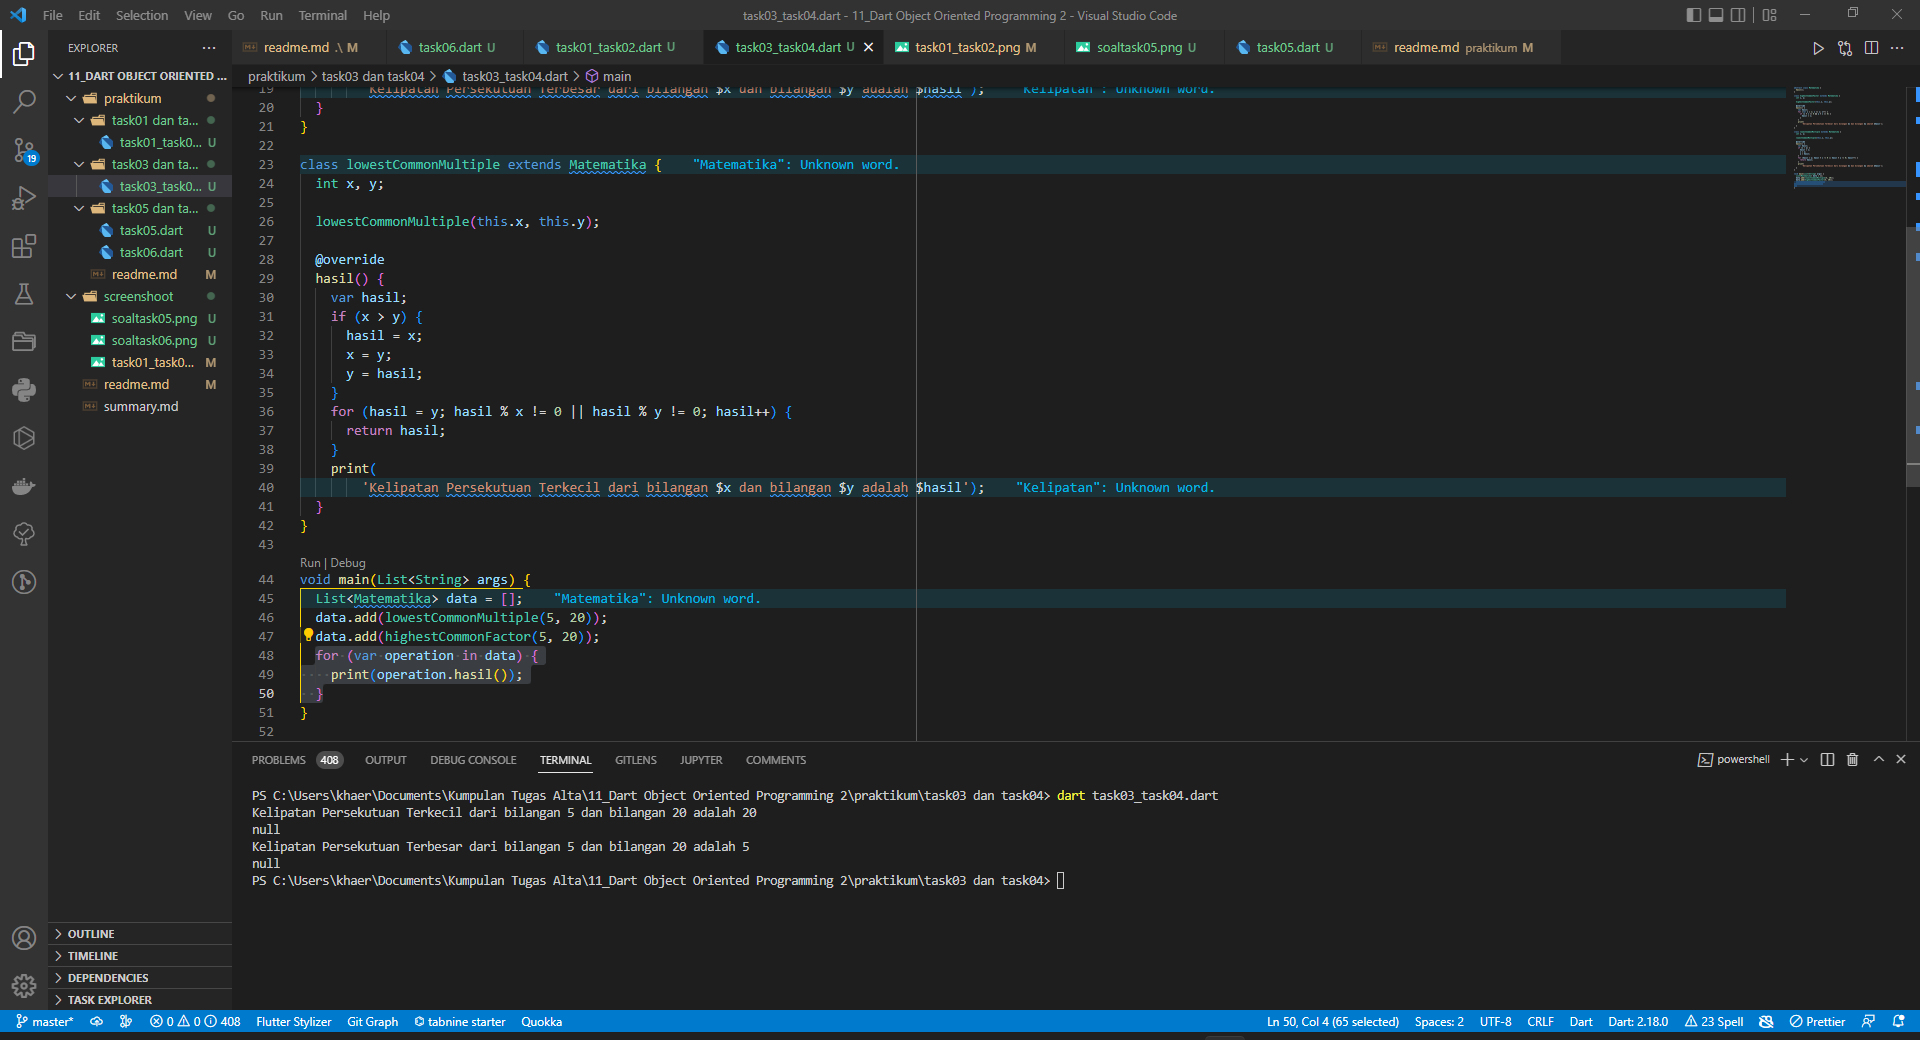
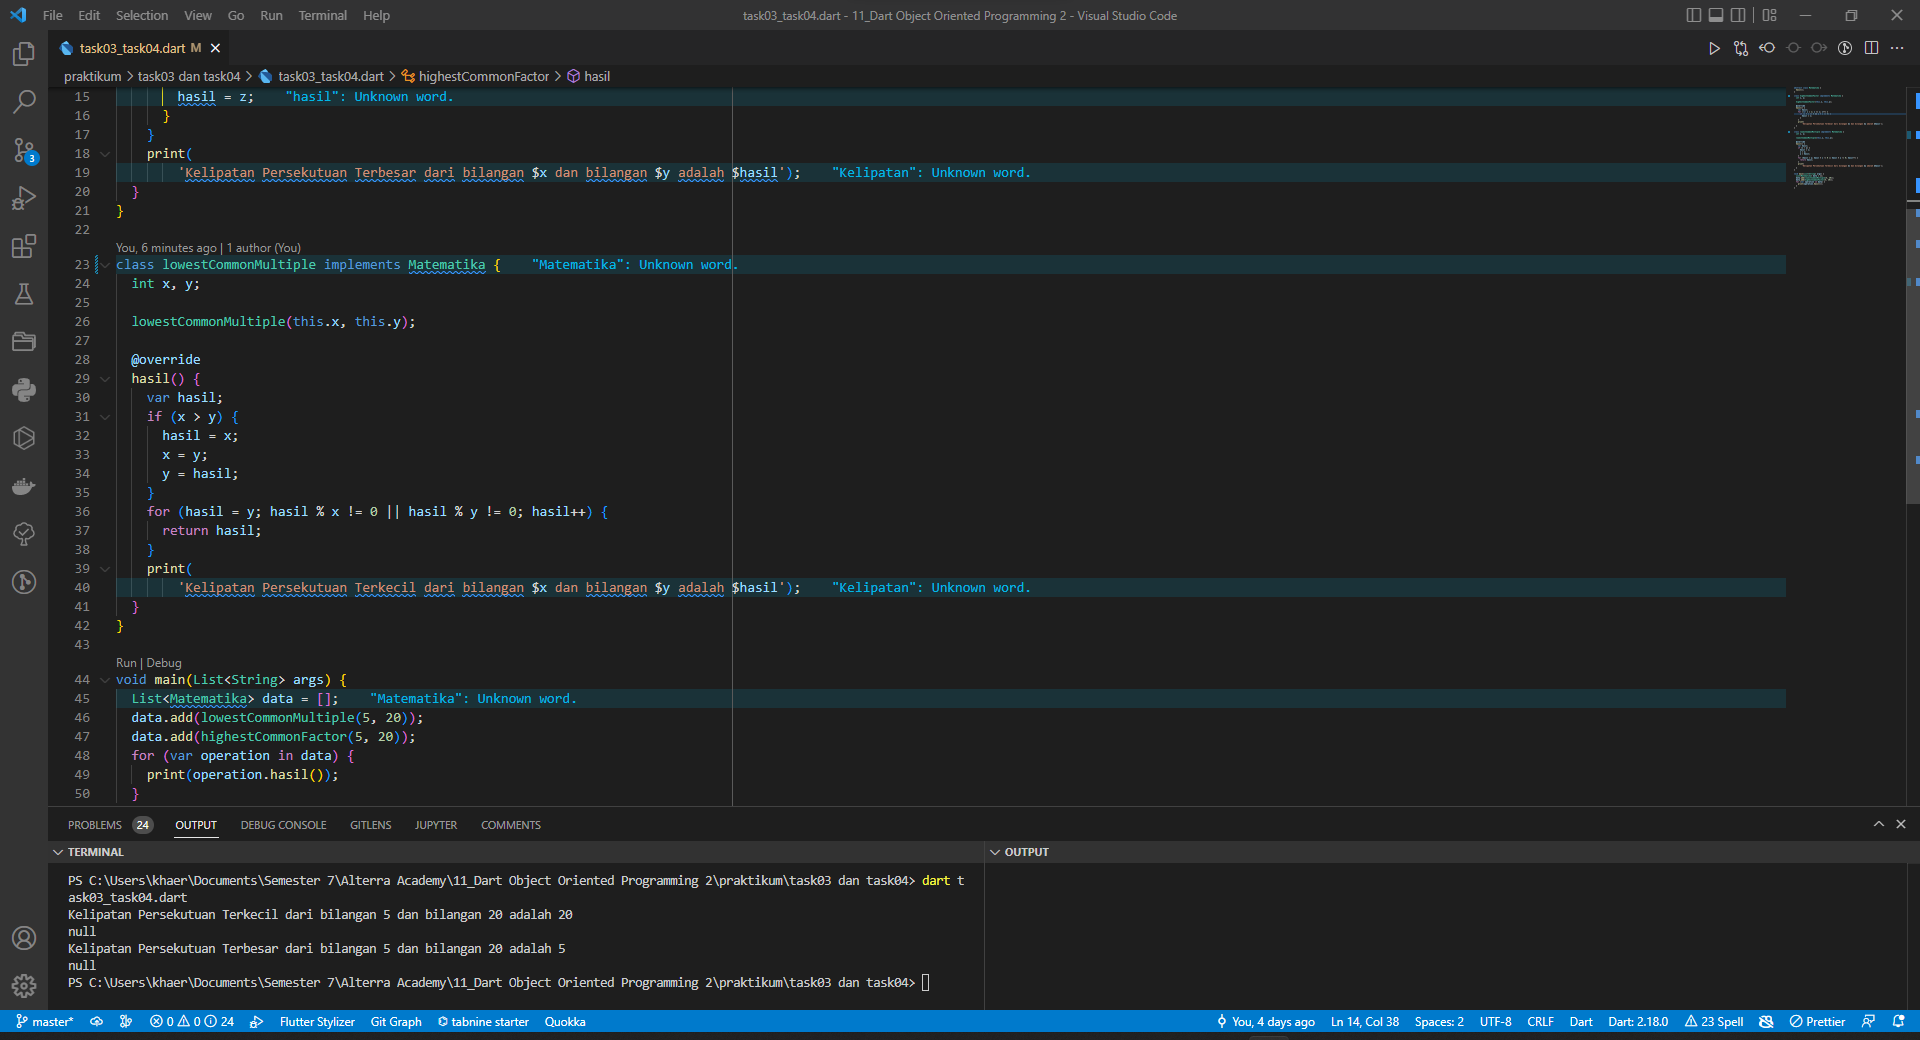
update task03 dan task04

diff --git a/11_Dart Object Oriented Programming 2/praktikum/task03 dan task04/task03_task04.dart b/11_Dart Object Oriented Programming 2/praktikum/task03 dan task04/task03_task04.dart
@@ -2,7 +2,7 @@ abstract class Matematika {
   hasil();
 }
 
-class highestCommonFactor extends Matematika {
+class highestCommonFactor implements Matematika {
   int x, y;
 
   highestCommonFactor(this.x, this.y);
@@ -20,7 +20,7 @@ class highestCommonFactor extends Matematika {
   }
 }
 
-class lowestCommonMultiple extends Matematika {
+class lowestCommonMultiple implements Matematika {
   int x, y;
 
   lowestCommonMultiple(this.x, this.y);

diff --git a/11_Dart Object Oriented Programming 2/readme.md b/11_Dart Object Oriented Programming 2/readme.md
@@ -97,7 +97,7 @@ lowestCommonMultiple(this.x, this.y);
 diatas proses membuat variable constructor dengan nama variabel x, y dan tipe datanya integer di class lowestCommonMultiple.
 
 ```dart
-class highestCommonFactor extends Matematika {
+class highestCommonFactor implements Matematika {
   @override
   hasil() {
     var hasil;
@@ -114,7 +114,7 @@ class highestCommonFactor extends Matematika {
 diatas proses menurunkan metode hasil yang terdapat pada class Matematika ke dalam class highestCommonFactor, metode hasil berisi proses
 
 ```dart
-class lowestCommonMultiple extends Matematika {
+class lowestCommonMultiple implements Matematika {
   @override
   hasil() {
     var hasil;
